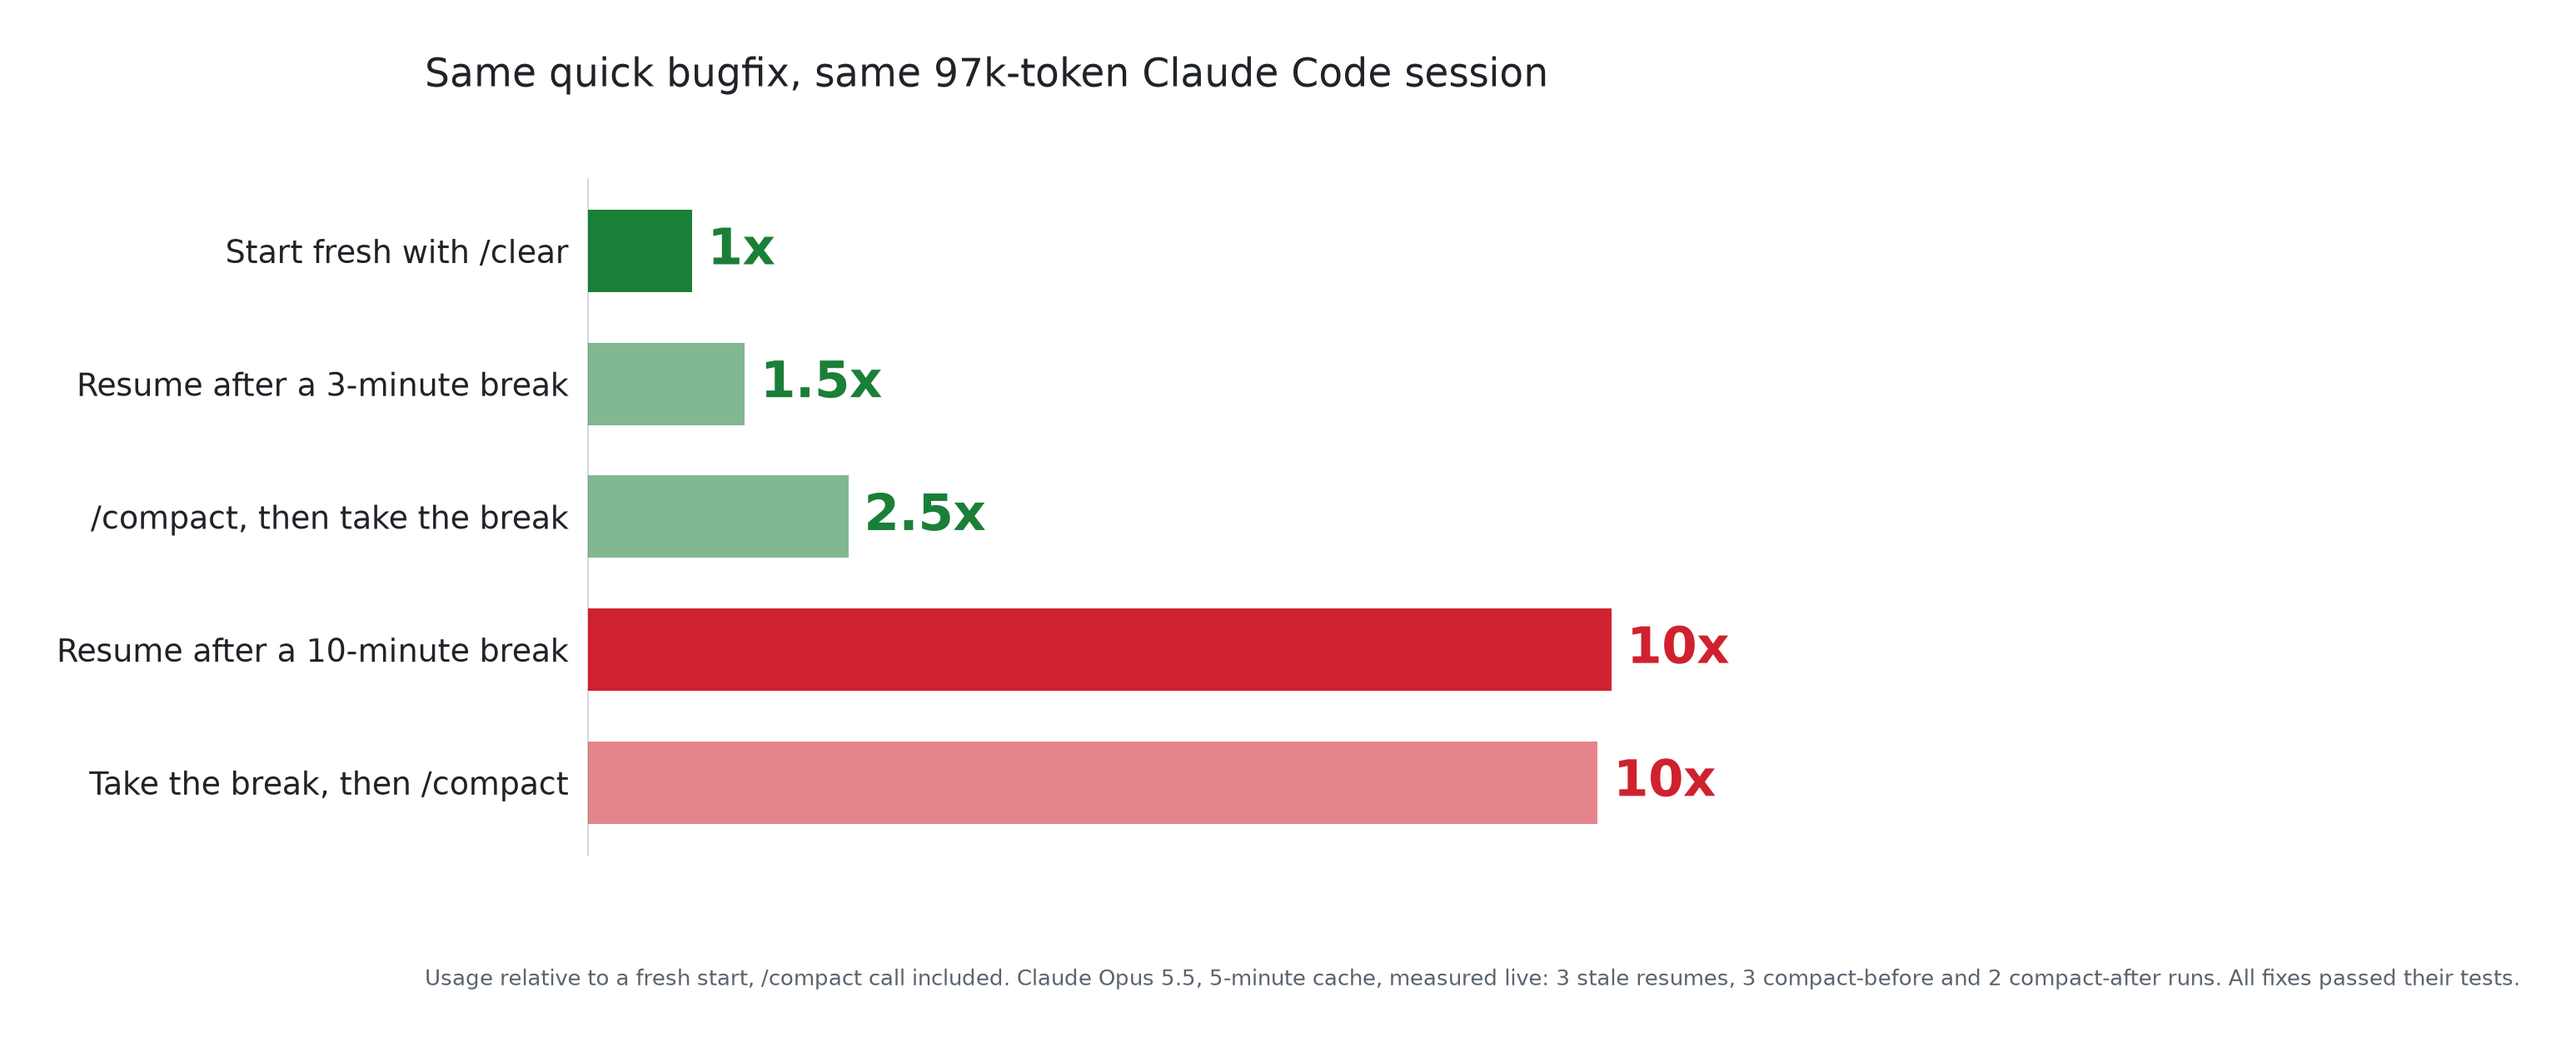
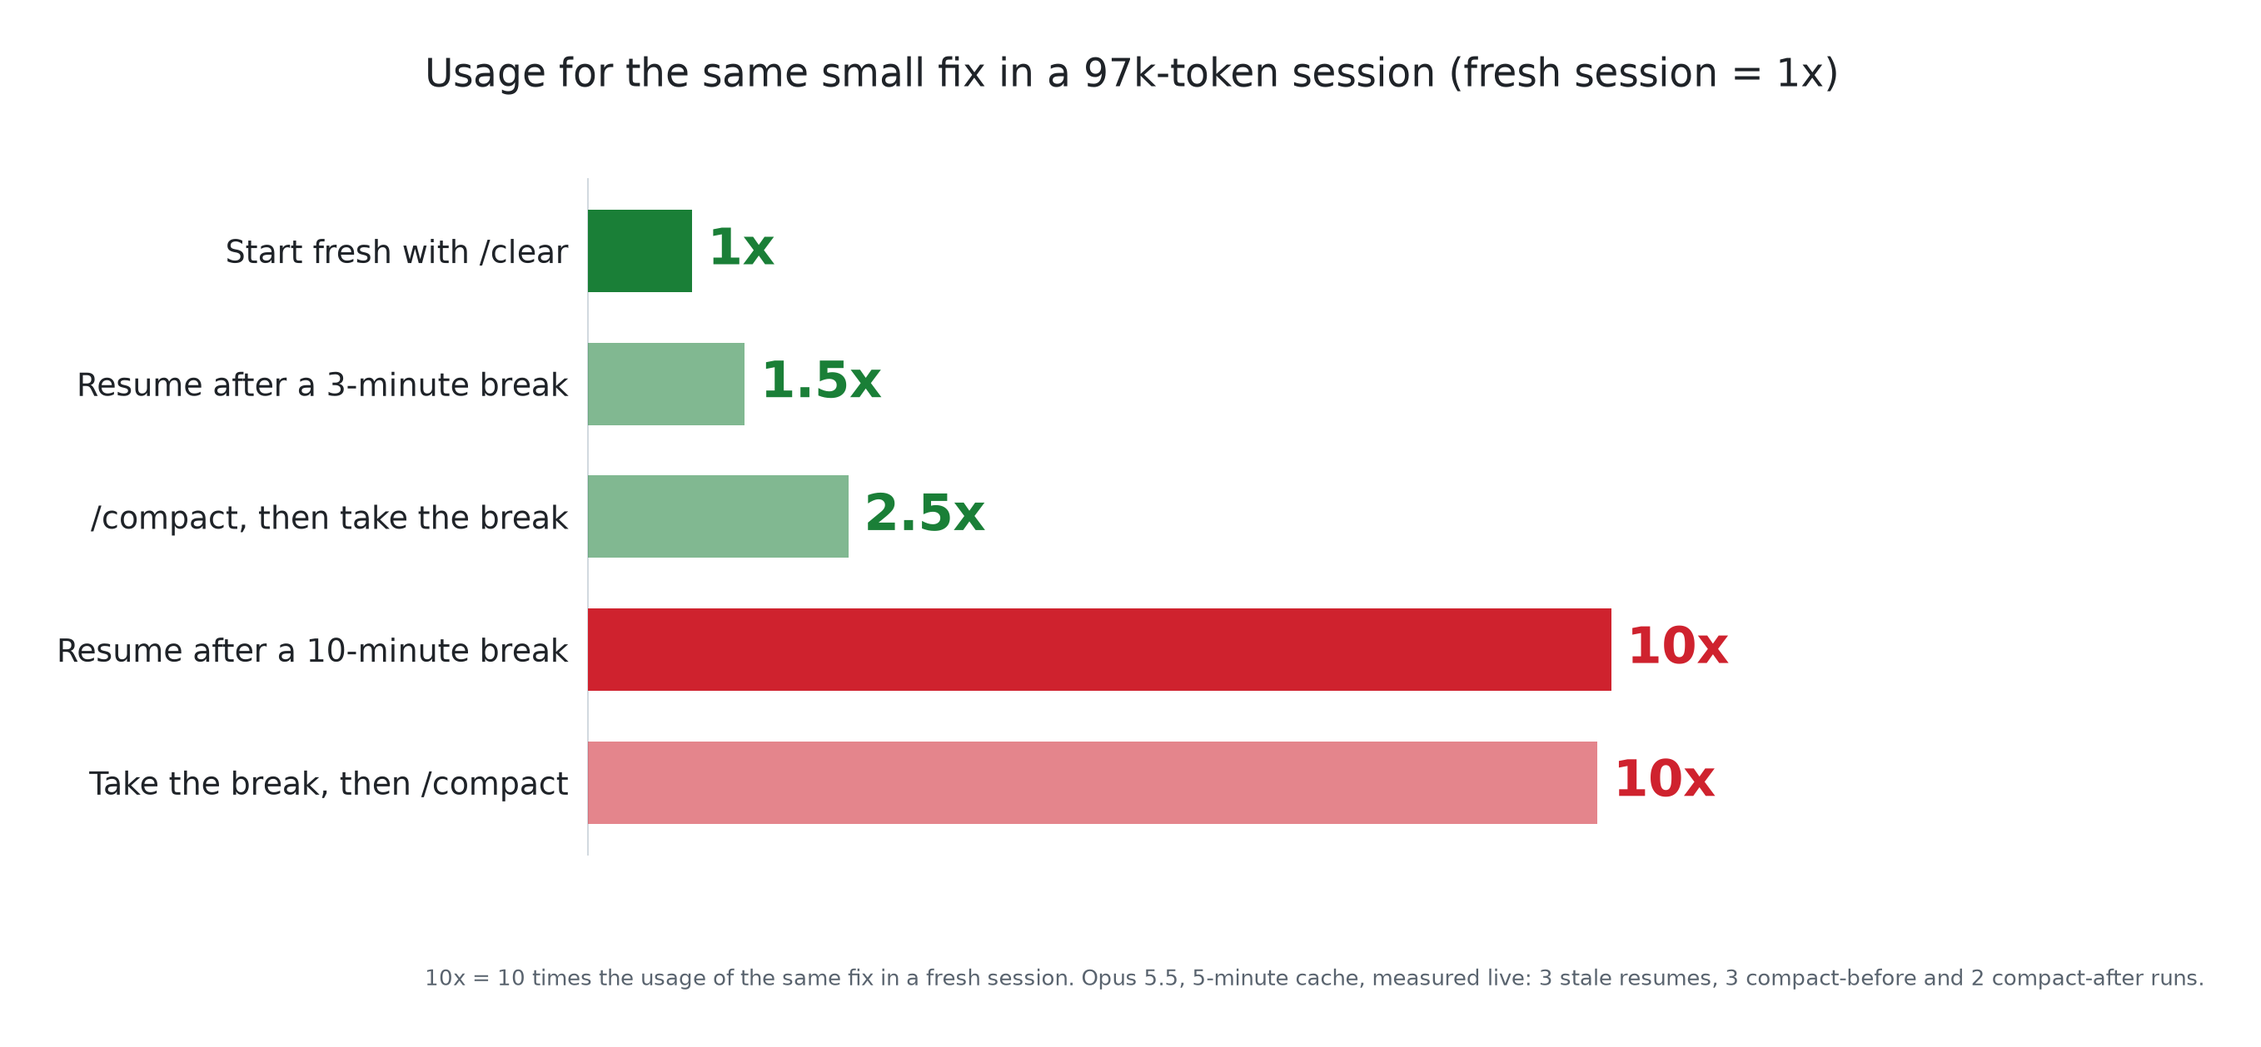
README: retitle to best practices and anti-patterns, explain what 10x means

diff --git a/src/cc_usage_study/experiments.py b/src/cc_usage_study/experiments.py
@@ -1210,11 +1210,10 @@ def figure_hero(data: dict, path: Path, plt) -> None:
         ax.spines[side].set_visible(False)
     ax.spines["left"].set_color(AXIS)
     ax.tick_params(length=0, pad=10)
-    fig.suptitle(f"Same quick bugfix, same {history / 1000:.0f}k-token Claude Code session", x=0.02, y=1.02,
-                 ha="left", fontsize=20)
+    fig.suptitle(f"Usage for the same small fix in a {history / 1000:.0f}k-token session (fresh session = 1x)",
+                 x=0.02, y=1.02, ha="left", fontsize=20)
     fig.text(0.02, -0.02,
-             f"Usage relative to a fresh start, /compact call included. Claude Opus 5.5, 5-minute cache, measured live: {note}. "
-             "All fixes passed their tests.",
+             f"10x = 10 times the usage of the same fix in a fresh session. Opus 5.5, 5-minute cache, measured live: {note}.",
              ha="left", va="top", fontsize=11, color=MUTED)
     _save(fig, path, plt)
 

diff --git a/tests/test_docs.py b/tests/test_docs.py
@@ -76,7 +76,7 @@ def test_no_private_material_in_public_pages():
 
 def test_readme_leads_with_the_hero_and_rules_and_embeds_the_charts():
     readme = (ROOT / "README.md").read_text(encoding="utf-8")
-    assert readme.startswith("# Your Claude Code coffee break costs 10x")
+    assert readme.startswith("# Claude Code usage: best practices and anti-patterns")
     hero = readme.index("outputs/figures/hero_coffee_break.png")
     rules = readme.index("## The rules")
     measured = readme.index("## How we measured")

diff --git a/README.md b/README.md
@@ -1,16 +1,16 @@
-# Your Claude Code coffee break costs 10x
+# Claude Code usage: best practices and anti-patterns
 
-**Come back to a big session after a 10-minute break, resume it, and the next fix uses about 10 times what a fresh `/clear` start uses.** We measured it on real Claude Opus 5.5 runs.
+**Step away from a big Claude Code session for 10 minutes, come back and resume it, and your next small fix uses about 10 times as much usage as the same fix in a fresh session.** Usage here means tokens weighted the way Anthropic bills them. Your history dropped out of Claude's 5-minute [prompt cache](https://code.claude.com/docs/en/prompt-caching) during the break, so all of it gets processed again at full price. Measured on real Claude Opus 5.5 runs.
 
 ![Same quick bugfix on a 97k-token session: fresh start 1x, resume after 3 minutes 1.5x, /compact then a break 2.5x, resume after a 10-minute break 10x, /compact after the break 10x](outputs/figures/hero_coffee_break.png)
 
 ## The rules
 
-- **Leaving for a break?** [`/compact`](https://code.claude.com/docs/en/commands) first. The next fix used 2.5x a fresh start, compact call included, not 10x. (n=3)
-- **Back after a break?** [`/clear`](https://code.claude.com/docs/en/commands) and paste a 3-line handoff. Resuming used ~10x more, and so did `/compact` after the break. (resume n=3, `/compact` n=2)
+- **Leaving for a break?** [`/compact`](https://code.claude.com/docs/en/commands) first. The next fix used 2.5x the usage of a fresh session (compact call included), not 10x. (n=3)
+- **Back after a break?** [`/clear`](https://code.claude.com/docs/en/commands) and paste a 3-line handoff. Resuming used about 10x the usage of a fresh session, and so did `/compact` after the break. (resume n=3, `/compact` n=2)
 - **Quick related fixes back to back?** Stay in the session. It used 28% less than `/clear` between each. (n=1)
 - **Scheduled `claude -p` jobs?** Fresh session every run, state in a file. `--resume` costs ~3x. (modeled)
-- **Pick the plain CLI.** The same fix used 1.19x in T3 Code and 1.80x in Claude Desktop's Code tab. (n=1)
+- **Pick the plain CLI.** The same fix used 1.19x as much in T3 Code and 1.80x in Claude Desktop's Code tab, compared with the CLI. (n=1)
 
 "Break" means longer than the [prompt cache](https://code.claude.com/docs/en/prompt-caching): **5 minutes** on an API key or usage credits, **1 hour** on a subscription within its [usage limits](https://support.claude.com/en/articles/11145838-use-claude-code-with-your-pro-max-or-ultra-plan). Measured with 10 to 13 minute breaks on the 5-minute cache ([does this apply to you?](#does-this-apply-to-you)).
 
